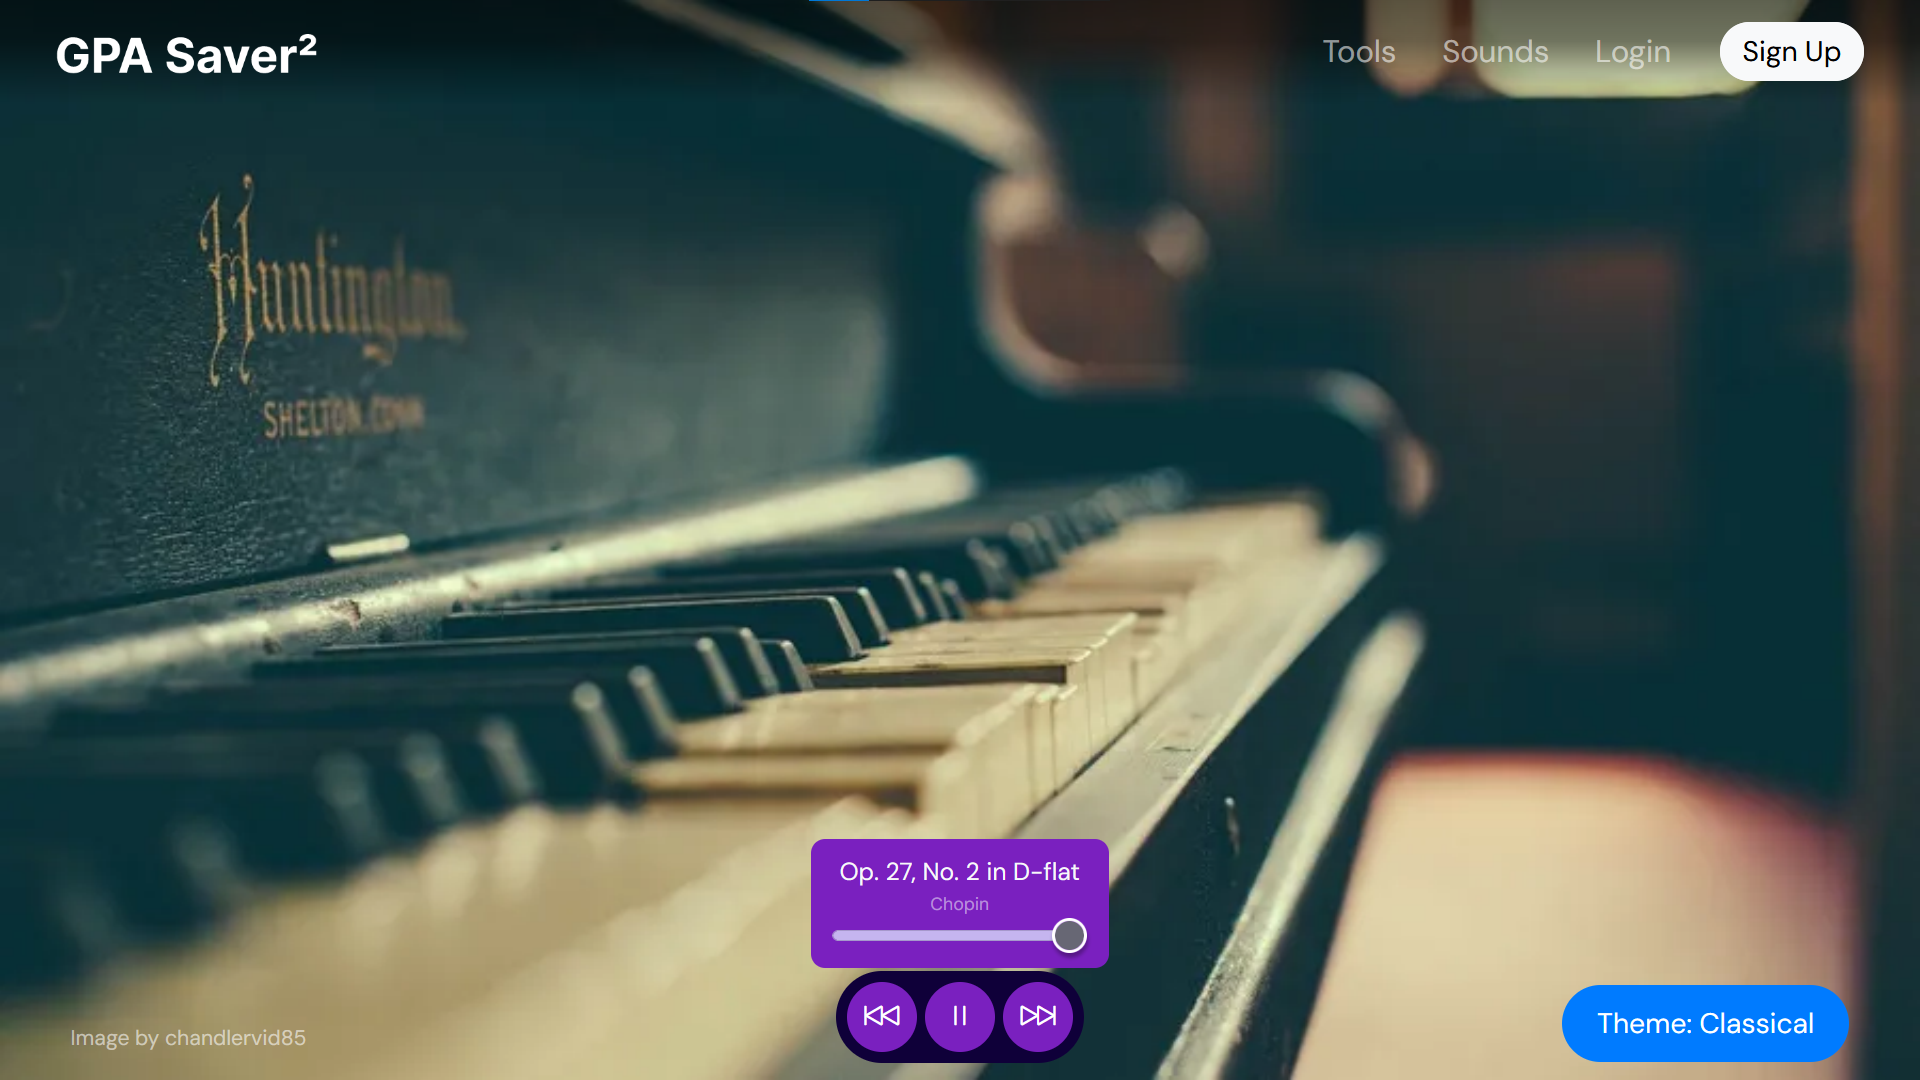
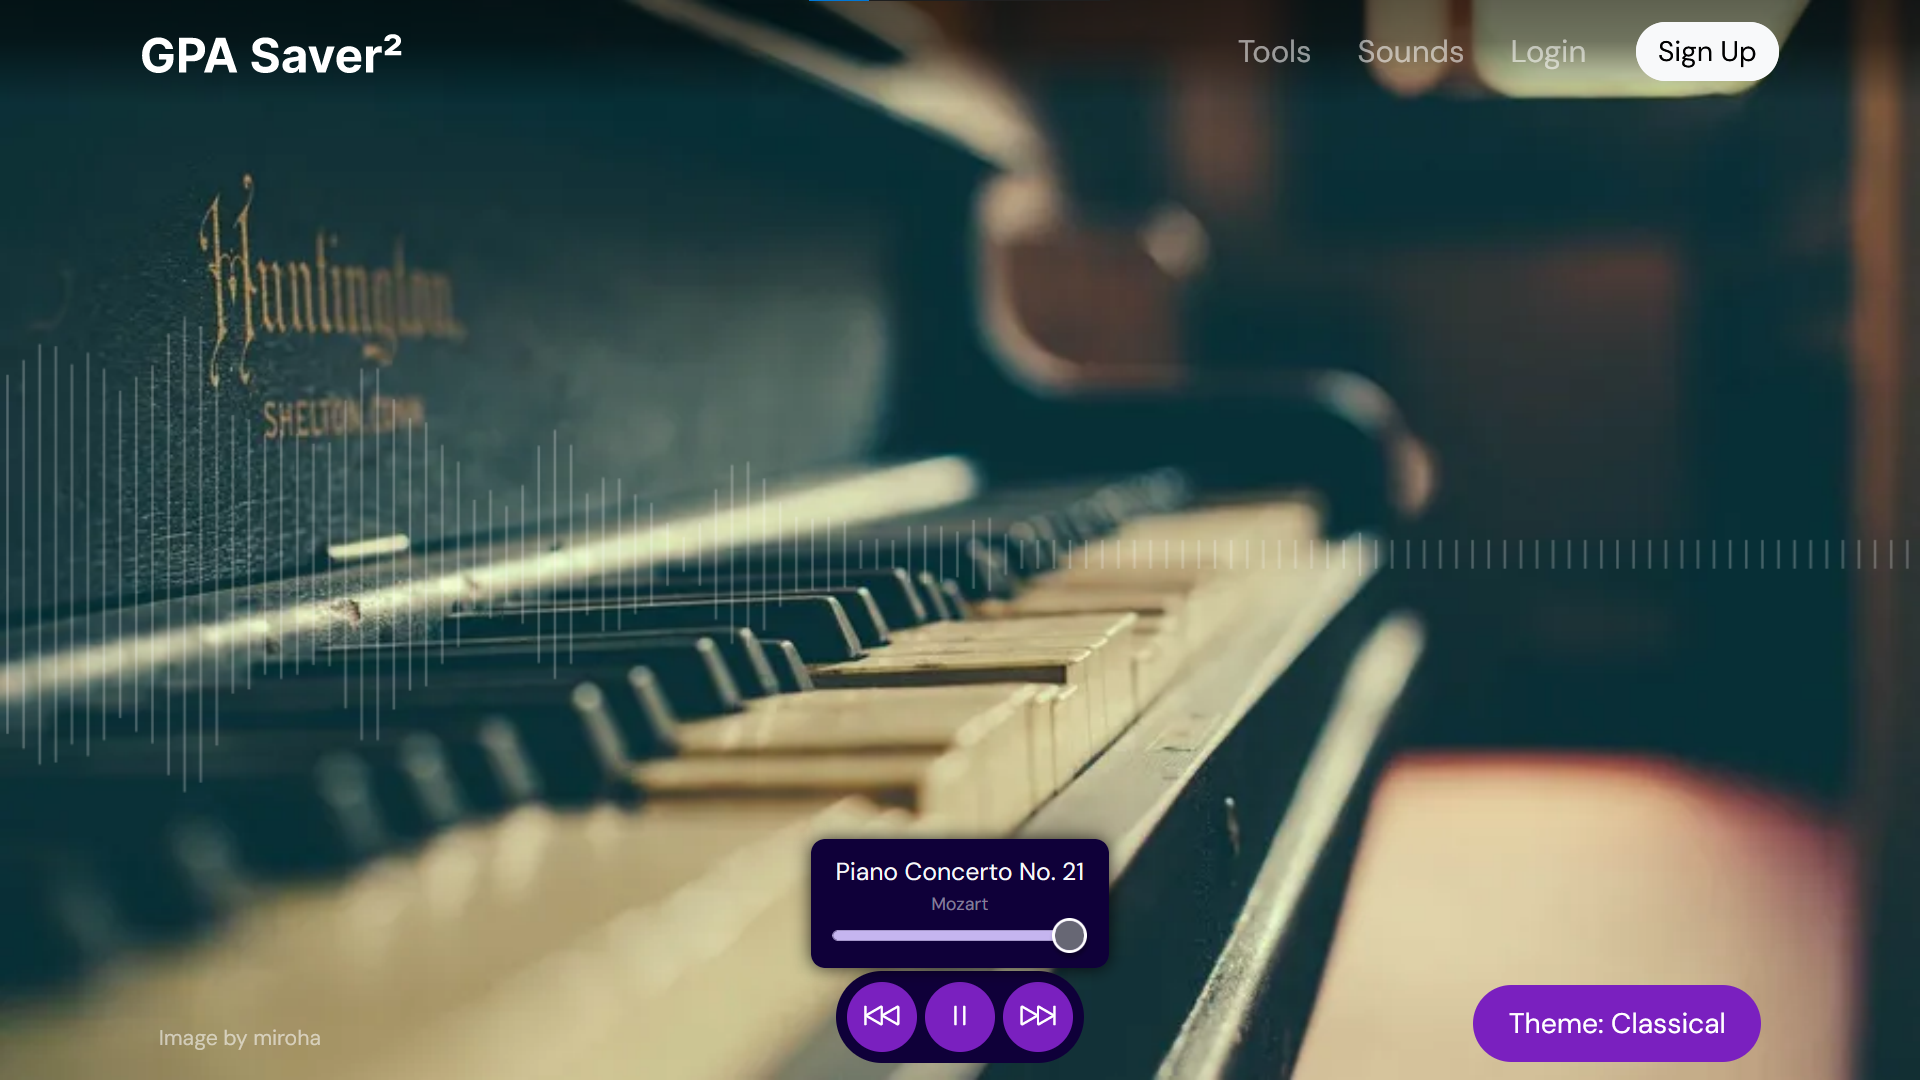
feat: Credit for background image changes changes when theme is changed
Also:
1. Comments for audioPlayer.js
2. Refactoring playCurrentSong() to include playMusic() - this was done to get rid of repetitive code
3. Renaming playCurrentSong() to playNewSong() - a better name for representing the function

diff --git a/js/audioPlayer.js b/js/audioPlayer.js
@@ -1,37 +1,39 @@
-document.addEventListener("DOMContentLoaded", function() {
+document.addEventListener("DOMContentLoaded", function () {
   var themes = [
     {
-      name: 'Lofi',
-      background: '../img/background/lofi_anime.jpg',
-      imgSrc: 'https://www.freepik.com/free-ai-image/cartoon-lofi-young-manga-style-girl-studying-while-listening-music-raining-street-ai-generative_43227423.htm#query=lofi%20anime&position=0&from_view=keyword&track=ais',
-      imgAuthor: 'chandlervid85',
+      name: "Lofi",
+      background: "../img/background/lofi_anime.jpg",
+      imgSrc:
+        "https://www.freepik.com/free-ai-image/cartoon-lofi-young-manga-style-girl-studying-while-listening-music-raining-street-ai-generative_43227423.htm#query=lofi%20anime&position=0&from_view=keyword&track=ais",
+      imgAuthor: "chandlervid85",
       playlist: [
         "music/lofi/Silent_Wood~Purrple_Cat.mp3",
         "music/lofi/Where_The_Waves_Take_Us~Purrple_Cat.mp3",
-        "music/lofi/Still_Awake~Ghostrifter_Official.mp3"
-      ]
+        "music/lofi/Still_Awake~Ghostrifter_Official.mp3",
+      ],
     },
     {
       name: "Classical",
-      background: '../img/background/classical_piano.webp',
-      imgSrc: 'https://wall.alphacoders.com/big.php?i=452391',
-      imgAuthor: 'miroha',
+      background: "../img/background/classical_piano.webp",
+      imgSrc: "https://wall.alphacoders.com/big.php?i=452391",
+      imgAuthor: "miroha",
       playlist: [
         "music/classical/Op._27,_No._2_in_D-flat~Chopin.mp3",
         "music/classical/Piano_Concerto_No._21~Mozart.mp3",
-        "music/classical/Piano_Sonata_No._15~Beethoven.mp3"
-      ]
-    }
+        "music/classical/Piano_Sonata_No._15~Beethoven.mp3",
+      ],
+    },
     // Add more themes as needed
   ];
-  
+
   // Target all buttons we need
   var audioPlayer = document.getElementById("audioPlayer");       // <audio> element
   var playPauseBtn = document.getElementById("playPauseBtn");     // Play and pause button
   var song = document.getElementById("song");                     // Song name in tooltip
   var artist = document.getElementById("artist");                 // Artist of song in tooltip
   var changeThemeBtn = document.getElementById("changeThemeBtn"); // Button to change theme
-  
+  var imgCredit = document.getElementById("img-credit");          // Credit for background image
+
   // State variables
   var currentThemeIndex = 0;                // 0 = Lofi, 1 = Classical
   var playing = false;                      // If audio is playing or not
@@ -39,95 +41,106 @@ document.addEventListener("DOMContentLoaded", function() {
   var currentSong = 0;                      // Song index in the playlist
   audioPlayer.src = playlist[currentSong];  // Set <audio>'s source to the first song in playlist
 
-  // Apply the theme (lofi or classical) and start playing the first song
-  function applyTheme() {
-    document.body.style.backgroundImage = "url(\"" + themes[currentThemeIndex].background + "\")";
-    playlist = themes[currentThemeIndex].playlist;
-    currentSong = 0;
-    playCurrentSong();
-  }
-
   // Set volume set by slider
   function setVolume() {
     audioPlayer.volume = volumeSlider.value / 100;
   }
 
-  // Updates song info in
+  // Updates song info in tooltip
   function updateSongInfo() {
-      // Parse file name to readable format
-      // File name: Silent_Wood~Purrple_Cat.mp3
-      //          becomes
-      // Song title: Silent Wood
-      // Artist: Purrple Cat
-      [song.textContent, artist.textContent] = playlist[currentSong].split('/').pop().replace(/_/g, ' ').replace('.mp3', '').split('~');
+    // Parse file name to readable format
+    // File name: "music/lofi/Silent_Wood~Purrple_Cat.mp3" -> ['Silent Wood', 'Purrple Cat]
+    [song.textContent, artist.textContent] = playlist[currentSong]
+      .split("/")
+      .pop()
+      .replace(/_/g, " ")
+      .replace(".mp3", "")
+      .split("~");
   }
 
-  function playCurrentSong() {
-      audioPlayer.src = playlist[currentSong];
-      audioPlayer.play();
-      updateSongInfo();
+  // Change <audio> src to the new song, play it, and update the info in tooltip
+  function playNewSong() {
+    audioPlayer.src = playlist[currentSong];
+    playMusic()
+    updateSongInfo();
   }
 
+  // Play music and show pause icon
   function playMusic() {
-      audioPlayer.play();
-      playPauseBtn.innerHTML = '<i class="bi bi-pause"></i>';
-      playing = true;
+    audioPlayer.play();
+    playPauseBtn.innerHTML = '<i class="bi bi-pause"></i>';
+    playing = true;
   }
 
+  // Pause music and show play button
   function pauseMusic() {
-      audioPlayer.pause();
-      playPauseBtn.innerHTML = '<i class="bi bi-play"></i>';
-      playing = false;
+    audioPlayer.pause();
+    playPauseBtn.innerHTML = '<i class="bi bi-play"></i>';
+    playing = false;
+  }
+  
+  // Apply the theme (lofi or classical) and start playing the first song
+  function applyTheme() {
+    let currentTheme = themes[currentThemeIndex];
+    document.body.style.backgroundImage =
+      'url("' + currentTheme.background + '")';
+    imgCredit.src = currentTheme.imgSrc;
+    imgCredit.textContent = "Image by " + currentTheme.imgAuthor;
+    playlist = currentTheme.playlist;
+    currentSong = 0;
+    playNewSong();
   }
 
-  document.getElementById("nextBtn").addEventListener("click", function() {
-      currentSong++;
-      if (currentSong >= playlist.length) {
-          currentSong = 0;
-      }
-      playCurrentSong();
+  // When next button is clicked, move to next song abd play the song
+  document.getElementById("nextBtn").addEventListener("click", function () {
+    currentSong++;
+    // Wrap back to first song if it is past the length of playlist
+    if (currentSong >= playlist.length) {
+      currentSong = 0;
+    }
+    playNewSong(); // Play the song
+  });
+
+  document.getElementById("prevBtn").addEventListener("click", function () {
+    currentSong--;
+    if (currentSong < 0) {
+      currentSong = playlist.length - 1;
+    }
+    playNewSong();
+  });
+
+  playPauseBtn.addEventListener("click", function () {
+    if (playing) {
+      pauseMusic();
+    } else {
       playMusic();
+    }
+    updateSongInfo();
   });
 
-  document.getElementById("prevBtn").addEventListener("click", function() {
-      currentSong--;
-      if (currentSong < 0) {
-          currentSong = playlist.length - 1;
-      }
-      playCurrentSong();
-      playMusic();
+  audioPlayer.addEventListener("ended", function () {
+    currentSong++;
+    if (currentSong >= playlist.length) {
+      currentSong = 0;
+    }
+    playNewSong();
   });
 
-  playPauseBtn.addEventListener("click", function() {
-      if (playing) {
-          pauseMusic();
-      } else {
-          playMusic();
-      }
-      updateSongInfo();
-  });
-
-  audioPlayer.addEventListener("ended", function() {
-      currentSong++;
-      if (currentSong >= playlist.length) {
-          currentSong = 0;
-      }
-      playCurrentSong();
-  });
-  volumeSlider.addEventListener("input", function() {
+  // When volume slider changes, set volume
+  volumeSlider.addEventListener("input", function () {
     setVolume();
   });
-  changeThemeBtn.addEventListener("click", function() {
+
+  // When theme button is clicked, update text on the button and apply the theme
+  changeThemeBtn.addEventListener("click", function () {
     currentThemeIndex = (currentThemeIndex + 1) % themes.length;
     changeThemeBtn.textContent = "Theme: " + themes[currentThemeIndex].name;
 
     applyTheme();
-    playMusic();
   });
 
   updateSongInfo();
   setVolume();
-  
 
   // -------------------------------------- AUDIO VISUALIZER --------------------------------------
 
@@ -136,10 +149,10 @@ document.addEventListener("DOMContentLoaded", function() {
   // https://developer.mozilla.org/en-US/docs/Web/API/AnalyserNode/fftSize
   // Use fast fourier transform to get frequency data from the audio
   analyser.fftSize = 256;
-  
+
   // Connect the audio player to the analyser
   var source = audioContext.createMediaElementSource(audioPlayer); // Get source from <audio> element
-  source.connect(analyser);                   // Reroute audio to analyser
+  source.connect(analyser); // Reroute audio to analyser
   analyser.connect(audioContext.destination); // Then route it to the device's speakers
 
   // Get canvas from DOM
@@ -163,24 +176,24 @@ document.addEventListener("DOMContentLoaded", function() {
     // This function copies the audio data into the dataArray
     analyser.getByteFrequencyData(dataArray);
 
-    var barWidth = 2;                 // Bars have a width of 2px
+    var barWidth = 2; // Bars have a width of 2px
     var barSpacing = window.innerWidth * 0.01; // Spacing of 1% of the screen width
-    var xStart = 5;                   // Start first rectangle 5px into the canvas
-    var centerY = canvas.height / 2;  // Center vertically in canvas
-    
+    var xStart = 5; // Start first rectangle 5px into the canvas
+    var centerY = canvas.height / 2; // Center vertically in canvas
+
     // /https://www.w3schools.com/TAgs/canvas_clearrect.asp
     // Clears the whole canvas for the next frame
     ctx.clearRect(0, 0, canvas.width, canvas.height);
 
     for (var i = 0; i < bufferLength; i++) {
-      var freqData = dataArray[i] / 255;            // Frequency data ranges 0-255; here we normalize the data between 0-1
-      ctx.fillStyle = "rgba(255, 255, 255, 0.25)";  // Color of the bars
-      var barHeight = canvas.height * freqData / 2; // Adjust the height based on loudness at this frequency
+      var freqData = dataArray[i] / 255; // Frequency data ranges 0-255; here we normalize the data between 0-1
+      ctx.fillStyle = "rgba(255, 255, 255, 0.25)"; // Color of the bars
+      var barHeight = (canvas.height * freqData) / 2; // Adjust the height based on loudness at this frequency
       // Create the rectangle (x, y, w, h)
       // It will be centered vertically in the middle of the canvas
       // It also has a resting height of 20px
       ctx.fillRect(xStart, centerY - barHeight / 2, barWidth, barHeight + 20);
-      
+
       // The next rectangle will be positioned to the right by our specified spacing
       xStart += barWidth + barSpacing;
     }

diff --git a/sounds.html b/sounds.html
@@ -72,7 +72,7 @@
     <canvas id="visualizer"></canvas>
 
     <!-- Image attribution -->
-    <a id="image-credit" class="image-credit" href="https://www.freepik.com/free-ai-image/cartoon-lofi-young-manga-style-girl-studying-while-listening-music-raining-street-ai-generative_43227423.htm#query=lofi%20anime&position=0&from_view=keyword&track=ais">Image by chandlervid85</a>
+    <a id="img-credit" class="image-credit" href="https://www.freepik.com/free-ai-image/cartoon-lofi-young-manga-style-girl-studying-while-listening-music-raining-street-ai-generative_43227423.htm#query=lofi%20anime&position=0&from_view=keyword&track=ais">Image by chandlervid85</a>
     
     <!-- Container for both the controls and tooltip -->
     <div class="audio-player-container">

diff --git a/css/styles.css b/css/styles.css
@@ -187,7 +187,7 @@ body {
 .image-credit {
   position: fixed;
   bottom: 15px;
-  left: 20px;
+  left: 90px;
   font-size: 12px;
   color: #ffffff8e; /* Change this to the desired text color */
   text-decoration: none;
@@ -273,7 +273,7 @@ body {
 #changeThemeBtn {
   position: fixed;
   bottom: 10px;
-  right: 20px;
+  right: 90px;
   background-color: var(--button);
   color: #ffffff;
   border: none;
